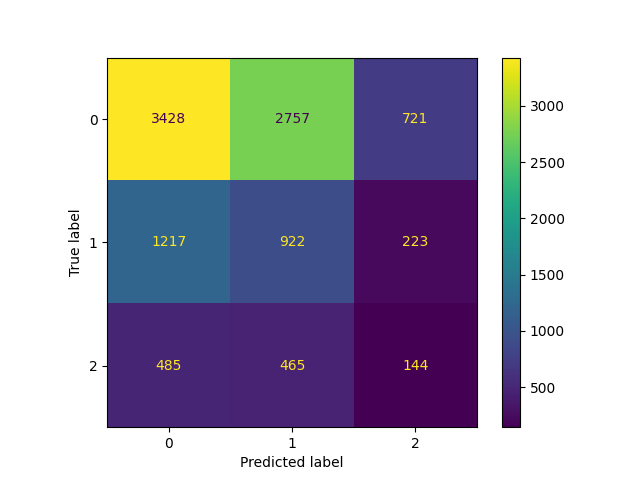
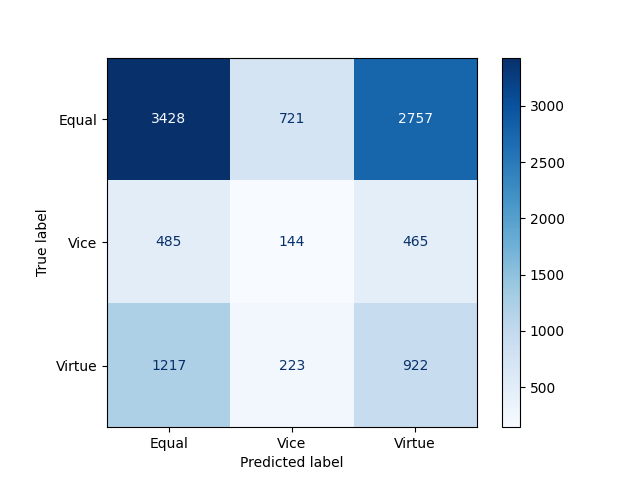
Improve confusion matrices

diff --git a/climate-change/experiments/llm/llama_metrics.py b/climate-change/experiments/llm/llama_metrics.py
@@ -36,46 +36,54 @@ def get_metrics(y_test, y_pred):
 
 def binary_metrics(y_test, y_pred):
     metrics = {'accuracy': accuracy_score(y_test, y_pred),
-               'precision': precision_score(y_test, y_pred),
-               'recall': recall_score(y_test, y_pred),
-               'f1': f1_score(y_test, y_pred),
-               'roc_auc': roc_auc_score(y_test, y_pred),
-               'precision_recall_auc': precision_recall_auc(y_test, y_pred)}
-    for beta_option in BETA_OPTIONS:
-        metrics['fbeta_{}'.format(beta_option)] = fbeta_score(y_test, y_pred, beta=beta_option)
+               'precision': precision_score(y_test, y_pred, pos_label="High"),
+               'recall': recall_score(y_test, y_pred, pos_label="High"),
+               'f1': f1_score(y_test, y_pred, pos_label="High"),
+               # 'roc_auc': roc_auc_score(y_test, y_pred),
+               # 'precision_recall_auc': precision_recall_auc(y_test, y_pred, pos_label="High")
+    }
+    # for beta_option in BETA_OPTIONS:
+    #     metrics['fbeta_{}'.format(beta_option)] = fbeta_score(y_test, y_pred, beta=beta_option)
     return metrics
 
 
-def save_confusion_matrix(y_true, y_pred):
-    disp = ConfusionMatrixDisplay(confusion_matrix(y_true, y_pred))
-    disp.plot()
-    plt.savefig(f'confusion_matrix/{filename.replace('csv','png')}')
+def save_confusion_matrix(y_true, y_pred, labels, color):
+    disp = ConfusionMatrixDisplay(confusion_matrix(y_true, y_pred, labels=labels),
+                                  display_labels=labels)
+    disp.plot(cmap=color)
+    plt.savefig(f'confusion_matrix/{filename}'.replace('csv','png'))
 
 
-LABEL_MAPPING = {'Low': 0,
-                 'High': 1,
-                 'Neutral': 0,
-                 'Anger': 1,
-                 'Disgust': 2,
-                 'Fear': 3,
-                 'Joy': 4,
-                 'Sadness': 5,
-                 'Surprise': 6,
-                 'Equal': 0,
-                 'Virtue': 1,
-                 'Vice': 2,
-                 'Positive': 1,
-                 'Negative': 2}
+def plot_color(filename):
+    if "few" in filename:
+        return plt.cm.Blues
+    else:
+        return plt.cm.Reds
+
+# LABEL_MAPPING = {'Low': 0,
+#                  'High': 1,
+#                  'Neutral': 0,
+#                  'Anger': 1,
+#                  'Disgust': 2,
+#                  'Fear': 3,
+#                  'Joy': 4,
+#                  'Sadness': 5,
+#                  'Surprise': 6,
+#                  'Equal': 0,
+#                  'Virtue': 1,
+#                  'Vice': 2,
+#                  'Positive': 1,
+#                  'Negative': 2}
 RESULTS_FOLDER = "results"
 
 for filename in os.listdir(RESULTS_FOLDER):
     df = pd.read_csv(os.path.join(RESULTS_FOLDER, filename))
     df['result'] = df['result'].str.replace(r'More |\.', '', regex=True)
-    df['ground_truth'] = df['ground_truth'].map(LABEL_MAPPING)
-    df['result'] = df['result'].map(LABEL_MAPPING)
+    # df['ground_truth'] = df['ground_truth'].map(LABEL_MAPPING)
+    # df['result'] = df['result'].map(LABEL_MAPPING)
     metrics = get_metrics(df['ground_truth'], df['result'])
 
     with open(f'metrics/{filename}', 'w') as file:
         file.write(json.dumps(metrics, indent=4))
 
-    save_confusion_matrix(df['ground_truth'], df['result'])
+    save_confusion_matrix(df['ground_truth'], df['result'], df['ground_truth'].unique(), plot_color(filename))
